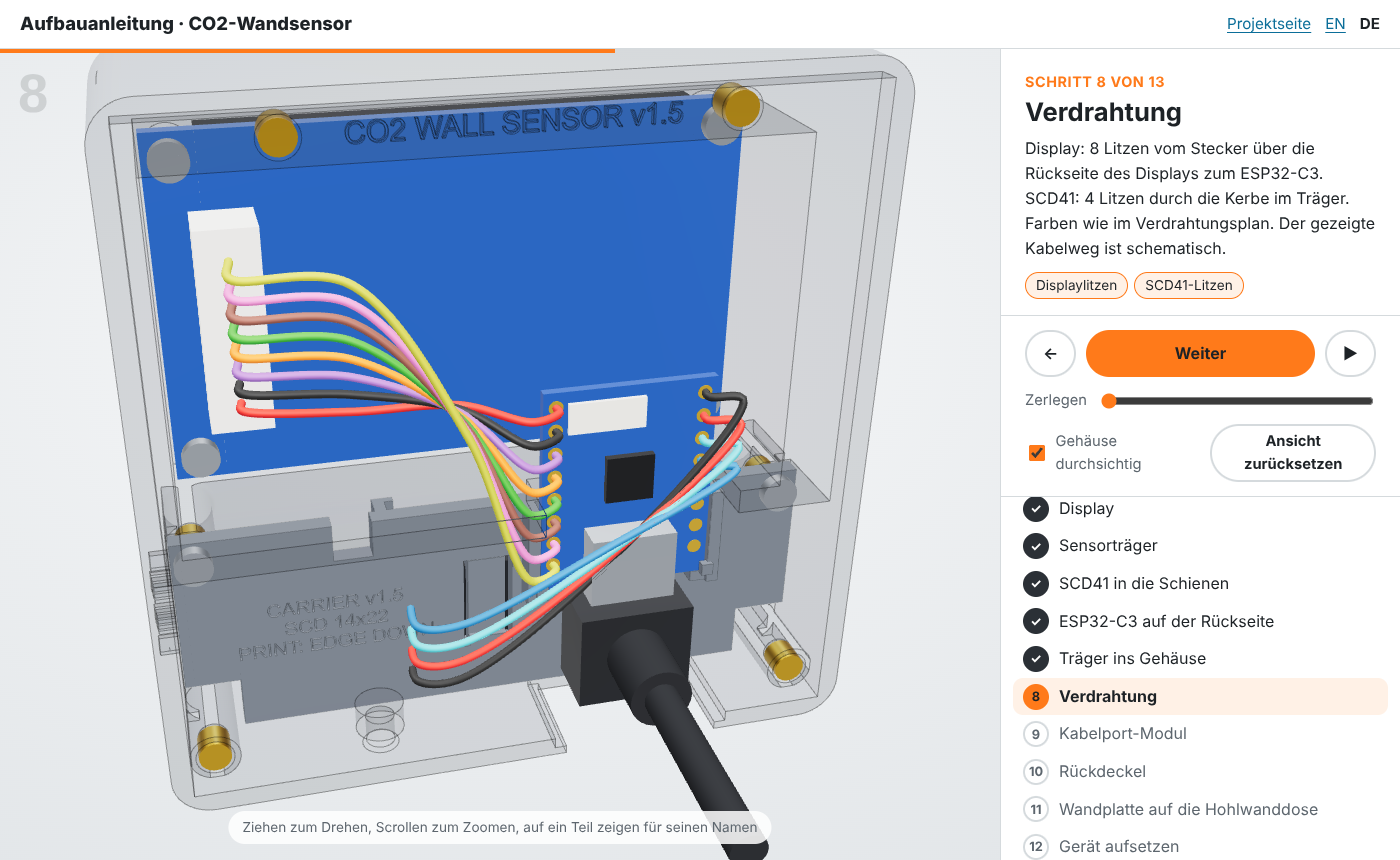
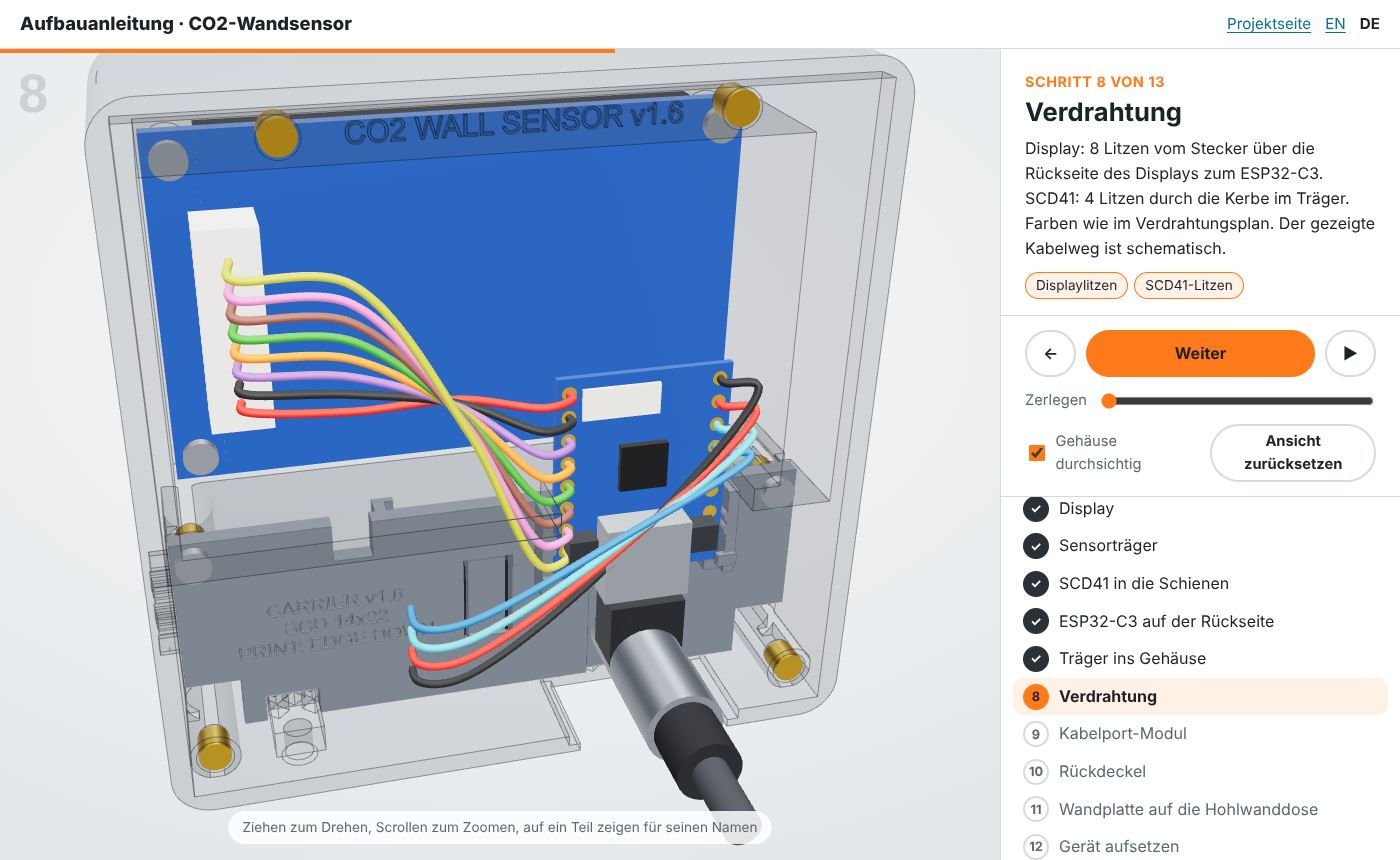
fix: shop links, prices and pictures match the current state (#18)
* docs: current 3D guide screenshots, social preview from the current render, plug and ESP facts

Claude-Session: https://claude.ai/code/session_015HxB3nZPNGitZsjqH2sYhj

* fix: shop links and prices of the parts you bought, no empty shop cells

Claude-Session: https://claude.ai/code/session_015HxB3nZPNGitZsjqH2sYhj

---------

Changed region(s): [[0.215, 0.3628, 0.5529, 1.0], [0.1843, 0.786, 0.3071, 0.8767]]

diff --git a/site/template.html b/site/template.html
@@ -100,6 +100,7 @@
   th { font-family: "Archivo", sans-serif; font-stretch: 112%; font-weight: 700; }
   td.qty { width: 3.5em; text-align: right; font-variant-numeric: tabular-nums; }
   td.shop { white-space: nowrap; }
+  td.shop .only { color: var(--muted); font-size: .9em; }
   .scroll { overflow-x: auto; }
   .downloads { display: flex; flex-wrap: wrap; gap: 12px; margin: 18px 0 0; padding: 0; list-style: none; }
   footer { padding: 40px 0 60px; color: var(--muted); font-size: .95rem; border-top: 1px solid var(--rule); }

diff --git a/tools/social_preview.py b/tools/social_preview.py
@@ -1,0 +1,66 @@
+#!/usr/bin/env python3
+"""
+Social preview of the repository (GitHub settings, link previews of the project page).
+
+Composes the current render docs/images/hero_wall.png with the title and the CO2 scale, so the preview
+always shows the current enclosure. Uses the Inter font when it is installed.
+
+Usage:   python tools/social_preview.py
+Output:  docs/images/social_preview.png (1280 x 640)
+"""
+
+from __future__ import annotations
+
+from pathlib import Path
+
+from PIL import Image, ImageDraw, ImageFont
+
+ROOT = Path(__file__).resolve().parents[1]
+IMAGES = ROOT / "docs" / "images"
+SIZE = (1280, 640)
+BG = (238, 240, 241)
+INK = (29, 34, 38)
+MUTED = (93, 102, 110)
+SCALE = [((46, 204, 113), 0.375), ((245, 183, 0), 0.25), ((231, 76, 60), 0.375)]
+
+
+def font(size: int, weight: str = "Regular") -> ImageFont.FreeTypeFont:
+    for name in (
+        f"/usr/share/fonts/opentype/inter/Inter-{weight}.otf",
+        f"Inter-{weight}.ttf",
+        "/usr/share/fonts/truetype/dejavu/DejaVuSans-Bold.ttf"
+        if weight != "Regular"
+        else "/usr/share/fonts/truetype/dejavu/DejaVuSans.ttf",
+    ):
+        try:
+            return ImageFont.truetype(name, size)
+        except OSError:
+            continue
+    return ImageFont.load_default()
+
+
+def main() -> None:
+    img = Image.new("RGB", SIZE, BG)
+    d = ImageDraw.Draw(img)
+    d.text((72, 190), "CO2 Wall Sensor", font=font(76, "ExtraBold"), fill=INK, anchor="ls")
+    for k, line in enumerate(("CO2, temperature and humidity", "for Home Assistant. Wall or desk.")):
+        d.text((72, 280 + k * 44), line, font=font(31), fill=MUTED, anchor="ls")
+    x, w = 72, 520
+    for colour, part in SCALE:
+        d.rectangle([x, 392, x + w * part, 410], fill=colour)
+        x += w * part
+    # round ends of the scale
+    d.ellipse([63, 392, 81, 410], fill=SCALE[0][0])
+    d.ellipse([72 + w - 9, 392, 72 + w + 9, 410], fill=SCALE[-1][0])
+    d.text((72, 456), "ESP32-C3 · SCD41 · ESPHome · 3D printed", font=font(23), fill=MUTED, anchor="ls")
+    render = Image.open(IMAGES / "hero_wall.png").convert("RGBA")
+    render = render.crop(render.getbbox())
+    render.thumbnail((520, 520), Image.Resampling.LANCZOS)
+    img.paste(render, (980 - render.width // 2, 320 - render.height // 2), render)
+    out = IMAGES / "social_preview.png"
+    img.save(out, optimize=True)
+    print(f"written: {out.relative_to(ROOT)}")
+
+
+if __name__ == "__main__":
+    main()

diff --git a/tools/bom.py b/tools/bom.py
@@ -30,6 +30,11 @@ HEADER = {
     "de": "| Anz. | Teil | AliExpress | Amazon.de |\n|----:|------|-----------:|----------:|",
 }
 WORDS_DE = {"pcs": "Stk.", "colours": "Farben", "OD": "AD"}
+# shown in a shop column without an offer, so no cell stays empty
+ONLY = {
+    "en": {"aliexpress": "Amazon only", "amazon": "AliExpress only"},
+    "de": {"aliexpress": "nur Amazon", "amazon": "nur AliExpress"},
+}
 
 
 def load() -> list[dict]:
@@ -77,7 +82,7 @@ def markdown_table(lang: str) -> str:
                 label, note = price_label(r[shop].get("price"), lang)
                 cells.append(f"[{label}]({r[shop]['link']}){note}")
             else:
-                cells.append("")
+                cells.append(f"*{ONLY[lang][shop]}*")
         lines.append(f"| {r.get('qty', '')} | {part_name(r, lang)} | {cells[0]} | {cells[1]} |")
     return "\n".join(lines)
 
@@ -93,7 +98,7 @@ def html_rows(lang: str) -> str:
                 link = html.escape(r[shop]["link"])
                 cells.append(f'<a href="{link}" rel="nofollow noopener">{html.escape(label)}</a>')
             else:
-                cells.append("")
+                cells.append(f'<span class="only">{ONLY[lang][shop]}</span>')
         out.append(
             f'          <tr><td class="qty">{r.get("qty", "")}</td><td>{part}</td>'
             f'<td class="shop">{cells[0]}</td><td class="shop">{cells[1]}</td></tr>'

diff --git a/tools/build_site.py b/tools/build_site.py
@@ -89,7 +89,7 @@ TEXT = {
         "t_cap_carrier": "The SCD41 slides into rails",
         "t_cap_desk": "On the desk stand",
         "t_parts_title": "What you need",
-        "t_parts_text": "About 45 euros of parts. Pick the shop you like, the links are suggestions.",
+        "t_parts_text": "About 55 euros of parts for one device. Pick the shop you like, the links are suggestions.",
         "t_qty": "Qty",
         "t_part": "Part",
         "t_prices": "Prices as checked in October 2026, they change often. Two sensor carriers fit the 13.5 × 21.75 mm and the 15 × 20 mm SCD41 board.",
@@ -160,7 +160,7 @@ TEXT = {
         "t_cap_carrier": "Der SCD41 gleitet in Schienen",
         "t_cap_desk": "Auf dem Tischständer",
         "t_parts_title": "Das brauchst du",
-        "t_parts_text": "Teile für rund 45 Euro. Such dir den Shop aus, die Links sind Vorschläge.",
+        "t_parts_text": "Teile für rund 55 Euro pro Gerät. Such dir den Shop aus, die Links sind Vorschläge.",
         "t_qty": "Anz.",
         "t_part": "Teil",
         "t_prices": "Preise Stand Oktober 2026, sie ändern sich oft. Zwei Sensorträger passen für die 13,5 × 21,75 mm und die 15 × 20 mm SCD41-Platine.",

diff --git a/README.de.md b/README.de.md
@@ -74,19 +74,19 @@ Technische Zeichnung (A3, ISO Methode 1): [Deutsch (PDF)](docs/drawing/co2_wall_
 
 ## Stückliste
 
-Insgesamt rund 45 €. Die Links sind Vorschläge, Stand Oktober 2026; Preise ändern sich oft.
+Rund 55 € für ein Gerät (jeweils der günstigste Shop, ohne Litze und Filament). Die Links sind Vorschläge, Stand Oktober 2026; Preise ändern sich oft.
 
 <!-- bom:start (generated from hardware/bom.yaml) -->
 | Anz. | Teil | AliExpress | Amazon.de |
 |----:|------|-----------:|----------:|
-| 1 | Sensirion **SCD41** Platine, **13,5 × 21,75 mm** oder **15 × 20 mm** ² | [20,99 €](https://de.aliexpress.com/item/1005009740863220.html) |  |
-| 1 | **ESP32-C3 SuperMini** | [2,79 €](https://de.aliexpress.com/item/1005007479144456.html) | [8,99 € (2 Stk.)](https://www.amazon.de/dp/B0DMNBWTFD) |
-| 1 | **Waveshare 2inch LCD Module** (ST7789V, 240 × 320) | [12,39 €](https://de.aliexpress.com/item/1005008772378337.html) | [16,31 €](https://www.amazon.de/dp/B081Q79X2F) |
-| 10 | Einschmelzmutter **M2 × 3**, Außendurchmesser 3,0 oder 3,2 mm, Länge 3 mm | [Link](https://de.aliexpress.com/item/1005008575446687.html) | [6,99 € (200 Stk., AD 3,0)](https://www.amazon.de/dp/B0DZHK4JRC) |
-| 10 | Linsenkopfschraube (Halbrundkopf) **M2 × 4**, ISO 7380 |  | [4,30 € (50 Stk.)](https://www.amazon.de/dp/B0DGXPQ7TW) |
-| 1 | USB-Kabel mit **USB-C Winkelstecker** (nach oben/unten gewinkelt) für den Port hinten |  | [7,69 €](https://www.amazon.de/dp/B01MSIE2L1) |
-| 1 | USB-Netzteil für die Hohlwanddose (Einbau durch eine Elektrofachkraft) oder ein beliebiges USB-Ladegerät |  | [8,99 €](https://www.amazon.de/dp/B0HHF42X68) |
-|  | Silikonlitze AWG 30 |  | [15,49 € (8 Farben)](https://www.amazon.de/dp/B0DH2FBWH7) |
+| 1 | Sensirion **SCD41** Platine, **13,5 × 21,75 mm** oder **15 × 20 mm** ² | [21,19 €](https://de.aliexpress.com/item/1005009740863220.html) | *nur AliExpress* |
+| 1 | **ESP32-C3 SuperMini** | [2,79 €](https://de.aliexpress.com/item/1005007479144456.html) | [4,30 € (2 Stk.: 8,59 €)](https://www.amazon.de/dp/B0HDCHXHMT) |
+| 1 | **Waveshare 2inch LCD Module** (ST7789V, 240 × 320) | [12,49 €](https://de.aliexpress.com/item/1005008772378337.html) | [16,31 €](https://www.amazon.de/dp/B081Q79X2F) |
+| 10 | Einschmelzmutter **M2 × 3**, Außendurchmesser 3,0 oder 3,2 mm, Länge 3 mm | [2,39 € (50 Stk., AD 3,2)](https://de.aliexpress.com/item/1005008575446687.html) | [6,99 € (200 Stk., AD 3,0)](https://www.amazon.de/dp/B0DZHK4JRC) |
+| 10 | Linsenkopfschraube (Halbrundkopf) **M2 × 4**, ISO 7380 | *nur Amazon* | [4,79 € (60 Stk.)](https://www.amazon.de/dp/B0FVT11R5L) |
+| 1 | USB-Kabel mit **USB-C Winkelstecker** (nach oben/unten gewinkelt) für den Port hinten | *nur Amazon* | [5,90 € (0,3 m)](https://www.amazon.de/dp/B0DGTQD4Y5) |
+| 1 | USB-Netzteil für die Hohlwanddose (Einbau durch eine Elektrofachkraft) oder ein beliebiges USB-Ladegerät | *nur Amazon* | [4,80 € (2 Stk.: 9,59 €)](https://www.amazon.de/dp/B0GVWPHKJM) |
+|  | Silikonlitze AWG 30 | *nur Amazon* | [15,49 € (8 Farben)](https://www.amazon.de/dp/B0DH2FBWH7) |
 <!-- bom:end -->
 
 ² Shops zeigen oft eine andere Platine als die, die geliefert wird. Nach dem Auspacken nachmessen und den passenden Träger drucken.

diff --git a/README.md b/README.md
@@ -74,19 +74,19 @@ Technical drawing (A3, ISO first angle): [English PDF](docs/drawing/co2_wall_sen
 
 ## Bill of materials
 
-About 45 € in total. The links are suggestions, checked in October 2026; prices change often.
+About 55 € for one device (cheapest shop each, without wire and filament). The links are suggestions, checked in October 2026; prices change often.
 
 <!-- bom:start (generated from hardware/bom.yaml) -->
 | Qty | Part | AliExpress | Amazon.de |
 |----:|------|-----------:|----------:|
-| 1 | Sensirion **SCD41** breakout, **13.5 × 21.75 mm** or **15 × 20 mm** ² | [20.99 €](https://de.aliexpress.com/item/1005009740863220.html) |  |
-| 1 | **ESP32-C3 SuperMini** | [2.79 €](https://de.aliexpress.com/item/1005007479144456.html) | [8.99 € (2 pcs)](https://www.amazon.de/dp/B0DMNBWTFD) |
-| 1 | **Waveshare 2inch LCD Module** (ST7789V, 240 × 320) | [12.39 €](https://de.aliexpress.com/item/1005008772378337.html) | [16.31 €](https://www.amazon.de/dp/B081Q79X2F) |
-| 10 | Heat-set insert **M2 × 3**, outer diameter 3.0 or 3.2 mm, length 3 mm | [Link](https://de.aliexpress.com/item/1005008575446687.html) | [6.99 € (200 pcs, OD 3.0)](https://www.amazon.de/dp/B0DZHK4JRC) |
-| 10 | Button head screw **M2 × 4**, ISO 7380 |  | [4.30 € (50 pcs)](https://www.amazon.de/dp/B0DGXPQ7TW) |
-| 1 | USB cable with **right-angle USB-C plug** (angled up/down) for the back port |  | [7.69 €](https://www.amazon.de/dp/B01MSIE2L1) |
-| 1 | USB power module for the flush wall box (installation by a qualified electrician), or any USB charger |  | [8.99 €](https://www.amazon.de/dp/B0HHF42X68) |
-|  | Silicone wire AWG 30 |  | [15.49 € (8 colours)](https://www.amazon.de/dp/B0DH2FBWH7) |
+| 1 | Sensirion **SCD41** breakout, **13.5 × 21.75 mm** or **15 × 20 mm** ² | [21.19 €](https://de.aliexpress.com/item/1005009740863220.html) | *AliExpress only* |
+| 1 | **ESP32-C3 SuperMini** | [2.79 €](https://de.aliexpress.com/item/1005007479144456.html) | [4.30 € (2 pcs: 8.59 €)](https://www.amazon.de/dp/B0HDCHXHMT) |
+| 1 | **Waveshare 2inch LCD Module** (ST7789V, 240 × 320) | [12.49 €](https://de.aliexpress.com/item/1005008772378337.html) | [16.31 €](https://www.amazon.de/dp/B081Q79X2F) |
+| 10 | Heat-set insert **M2 × 3**, outer diameter 3.0 or 3.2 mm, length 3 mm | [2.39 € (50 pcs, OD 3.2)](https://de.aliexpress.com/item/1005008575446687.html) | [6.99 € (200 pcs, OD 3.0)](https://www.amazon.de/dp/B0DZHK4JRC) |
+| 10 | Button head screw **M2 × 4**, ISO 7380 | *Amazon only* | [4.79 € (60 pcs)](https://www.amazon.de/dp/B0FVT11R5L) |
+| 1 | USB cable with **right-angle USB-C plug** (angled up/down) for the back port | *Amazon only* | [5.90 € (0.3 m)](https://www.amazon.de/dp/B0DGTQD4Y5) |
+| 1 | USB power module for the flush wall box (installation by a qualified electrician), or any USB charger | *Amazon only* | [4.80 € (2 pcs: 9.59 €)](https://www.amazon.de/dp/B0GVWPHKJM) |
+|  | Silicone wire AWG 30 | *Amazon only* | [15.49 € (8 colours)](https://www.amazon.de/dp/B0DH2FBWH7) |
 <!-- bom:end -->
 
 ² Shops often show a different board than the one they send. Measure it on arrival and print the matching carrier.

diff --git a/docs/de/design.md b/docs/de/design.md
@@ -59,7 +59,7 @@ Der Rückdeckel wird an vier Punkten gehalten: zwei Dome in den unteren Ecken un
 
 Der ESP32-C3 sitzt mit der USB-C-Buchse **nach unten**, darunter sind 13 mm frei. Das Kabel verlässt das Gerät durch ein kleines L-förmiges **Kabelport-Modul** an der unteren hinteren Kante:
 
-* **PortBack:** Loch für die Tülle eines Winkelsteckers. Das Kabel geht direkt in die Hohlwanddose oder durch den Tischständer. Der Steckerkörper sitzt hinter dem Modul und wirkt so als Zugentlastung.
+* **PortBack:** Langloch für den runden Körper eines Winkelsteckers (gemessen: Ø 8 × 18,2 mm), 1,5 mm Spiel nach oben und 0,5 mm nach unten für andere Fabrikate. Das Kabel geht direkt in die Hohlwanddose oder durch den Tischständer. Der Kragen des Steckers sitzt unter dem Modul und wirkt so als Zugentlastung.
 * **PortBottom:** Öffnung für einen geraden Stecker, wenn das Kabel auf Putz läuft.
 
 Das Modul wird zwischen Gehäuse und Rückdeckel geklemmt, eine Stufe in der Unterseite und eine Lippe unter dem Deckel halten es. Beide Versionen brauchen je 2 g Filament, man druckt beide und entscheidet vor Ort. Später wechseln kostet vier Schrauben. In v1.2 gab es dafür dünne Ausbrechfelder, die lassen sich nach dem Ausbrechen aber nicht wieder schließen.

diff --git a/docs/design.md b/docs/design.md
@@ -59,7 +59,7 @@ The back cover is held at four points: two bosses in the bottom corners and two 
 
 The ESP32-C3 sits with its USB-C socket pointing **down**, with 13 mm of free space below it. The cable leaves through a small L-shaped **cable port module** at the lower back edge:
 
-* **PortBack:** hole for the boot of a right-angle plug. The cable goes straight into the flush wall box or through the desk stand. The plug body is caught behind the module, which works as strain relief.
+* **PortBack:** oblong hole for the round body of a right-angle plug (measured: Ø 8 × 18.2 mm), 1.5 mm play up and 0.5 mm down for other makes. The cable goes straight into the flush wall box or through the desk stand. The collar of the plug sits under the module, which works as strain relief.
 * **PortBottom:** opening for a straight plug, if the cable runs on the wall surface.
 
 The module is clamped between housing and back cover, a step in the bottom wall and a lip under the cover hold it. Both versions take 2 g of filament, so you print both and decide on site. Changing it later takes four screws. Thin knock-out membranes were tried before (v1.2), but they cannot be closed again once broken out.

diff --git a/docs/assembly.md b/docs/assembly.md
@@ -61,7 +61,7 @@ The cable leaves through a small, swappable **cable port module** at the lower b
 
 The module is clamped between housing and back cover. A step in the bottom wall stops it from falling out, a lip under the back cover stops it from leaving towards the back. Changing the cable exit later takes four screws.
 
-**Strain relief:** with the back module the body of the right-angle plug sits behind the module. A pull on the cable ends at the module, not at the USB socket.
+**Strain relief:** with the back module the round body of the right-angle plug passes through an oblong hole, its collar sits under the module. A pull on the cable ends at the module, not at the USB socket.
 
 ## 5. Assembly
 

diff --git a/docs/de/aufbau.md b/docs/de/aufbau.md
@@ -61,7 +61,7 @@ Das Kabel verlässt das Gerät durch ein kleines, tauschbares **Kabelport-Modul*
 
 Das Modul wird zwischen Gehäuse und Rückdeckel geklemmt. Eine Stufe in der Unterseite verhindert, dass es herausfällt, eine Lippe unter dem Rückdeckel hält es nach hinten. Den Kabelaustritt später zu wechseln, kostet vier Schrauben.
 
-**Zugentlastung:** Beim Modul hinten sitzt der Körper des Winkelsteckers hinter dem Modul. Zug am Kabel endet am Modul und nicht an der USB-Buchse.
+**Zugentlastung:** Beim Modul hinten geht der runde Körper des Winkelsteckers durch ein Langloch, sein Kragen sitzt unter dem Modul. Zug am Kabel endet am Modul und nicht an der USB-Buchse.
 
 ## 5. Zusammenbau
 
